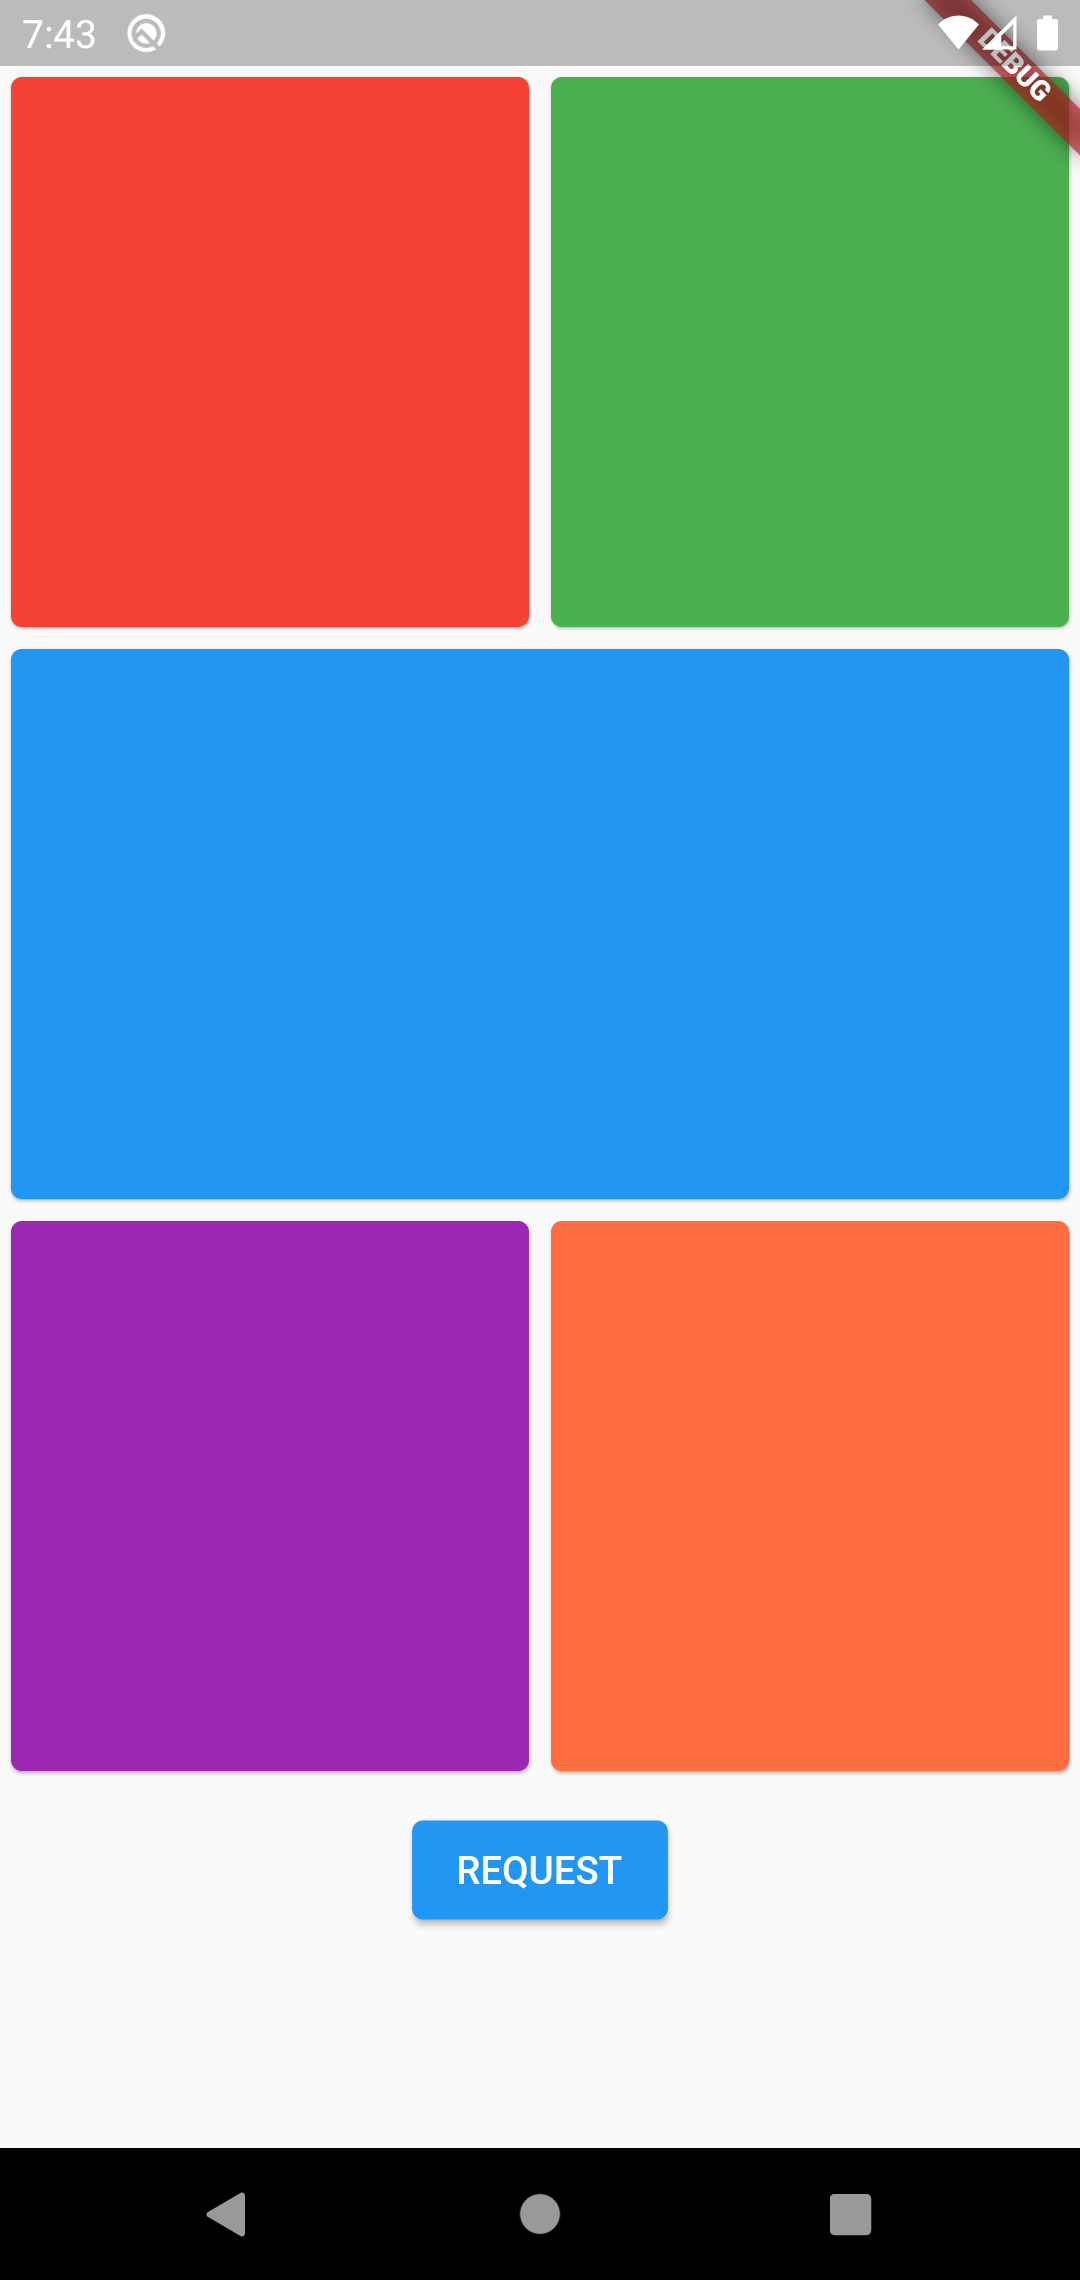
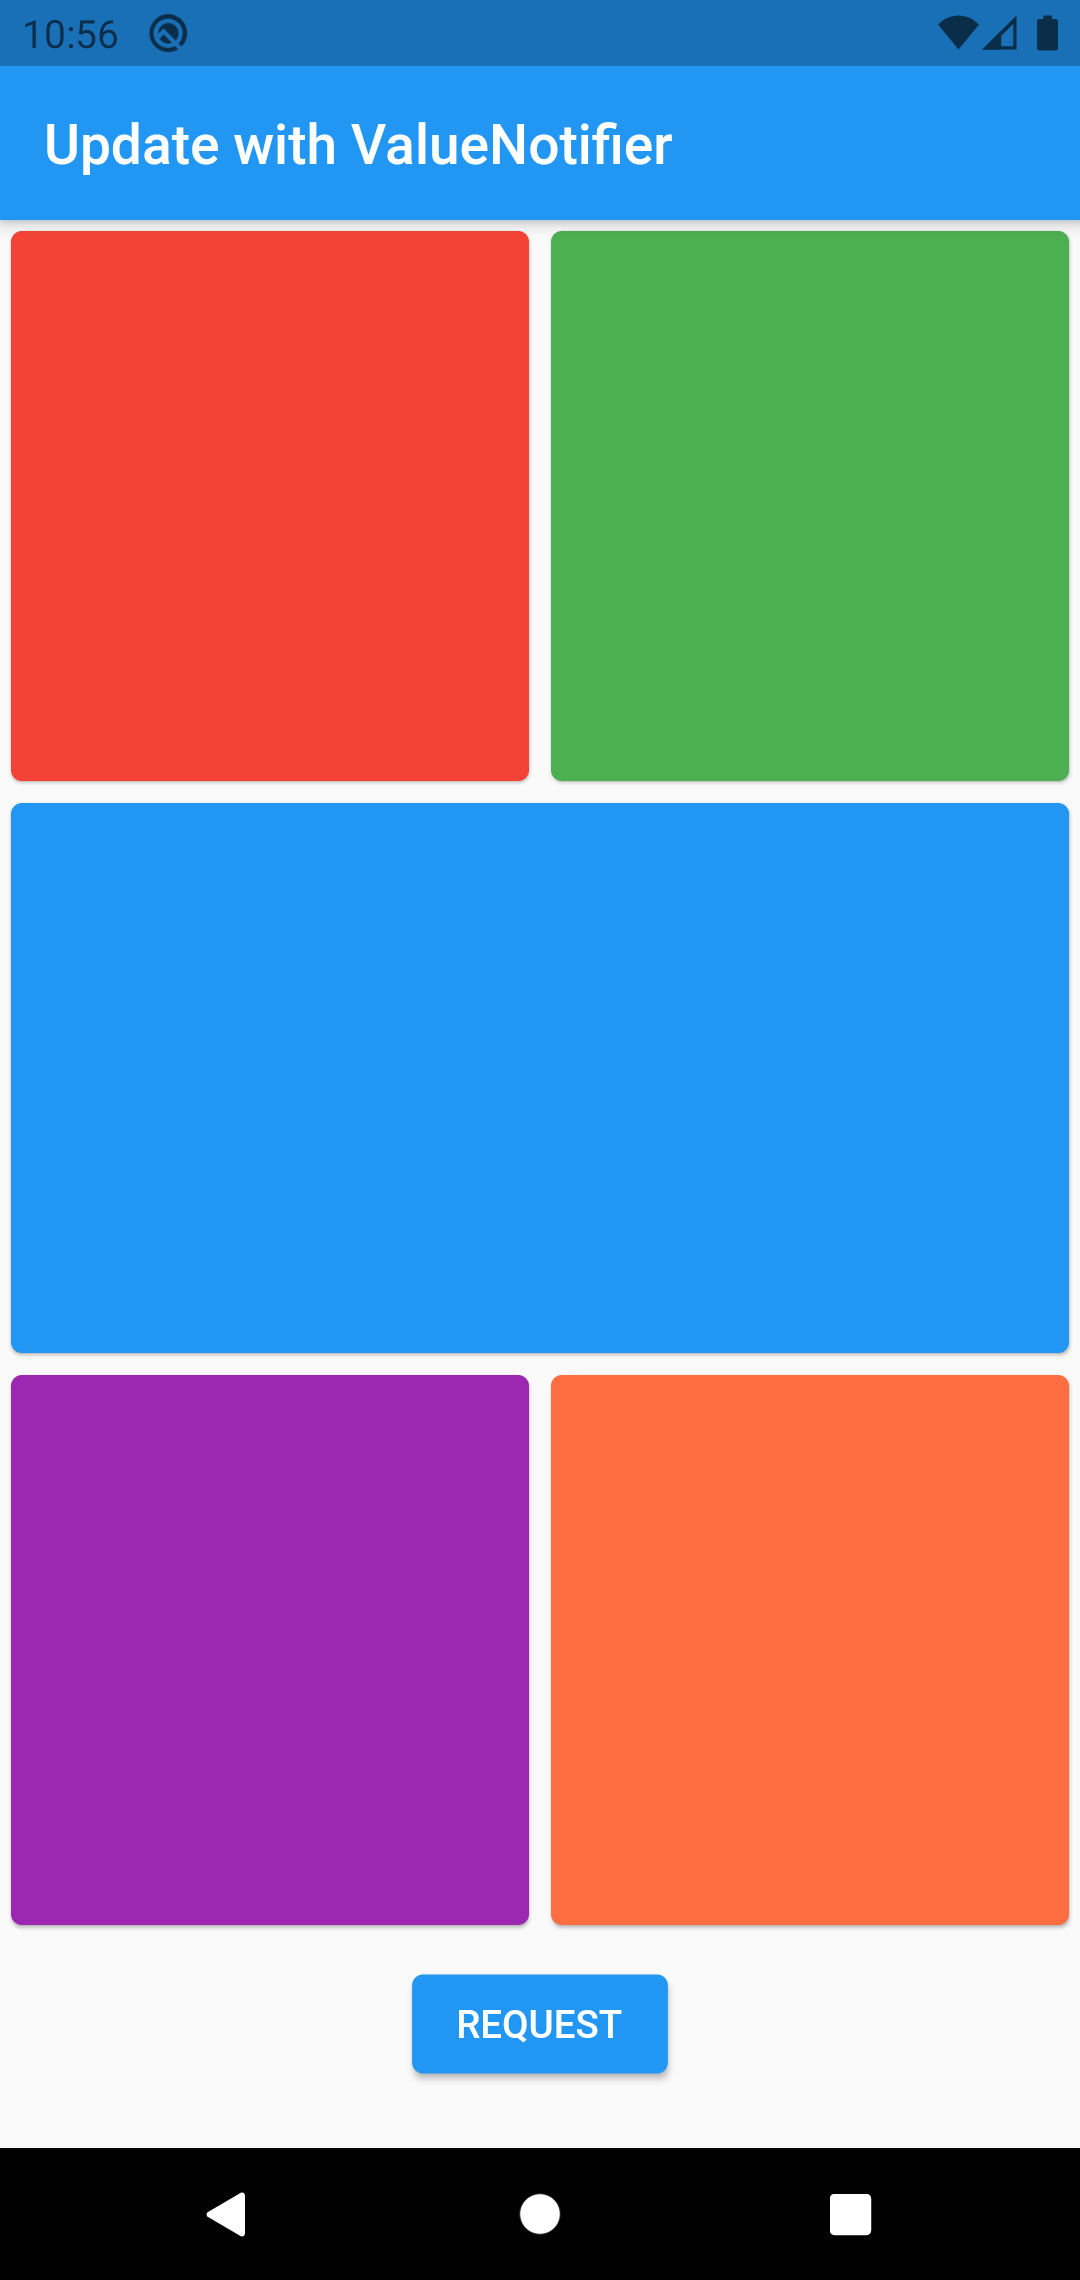
Code upfated.

diff --git a/lib/pages/home_page_with_value_notifier.dart b/lib/pages/home_page_with_value_notifier.dart
@@ -17,6 +17,9 @@ class _HomePageWithValueNotifierState extends State<HomePageWithValueNotifier> {
     final theme = Theme.of(context);
 
     return Scaffold(
+      appBar: AppBar(
+        title: Text('Update with ValueNotifier'),
+      ),
       body: SafeArea(
         child: Container(
           child: Column(

diff --git a/lib/main.dart b/lib/main.dart
@@ -11,6 +11,7 @@ class MyApp extends StatelessWidget {
   Widget build(BuildContext context) {
     return MaterialApp(
       title: 'Flutter Demo',
+      debugShowCheckedModeBanner: false,
       theme: ThemeData.light(),
       // home: HomePageWithSetState(),
       home: HomePageWithValueNotifier(),

diff --git a/lib/pages/home_page_with_set_state.dart b/lib/pages/home_page_with_set_state.dart
@@ -17,6 +17,9 @@ class _HomePageWithSetStateState extends State<HomePageWithSetState> {
     final theme = Theme.of(context);
 
     return Scaffold(
+      appBar: AppBar(
+        title: Text('Update with setState'),
+      ),
       body: SafeArea(
         child: Container(
           child: Column(
